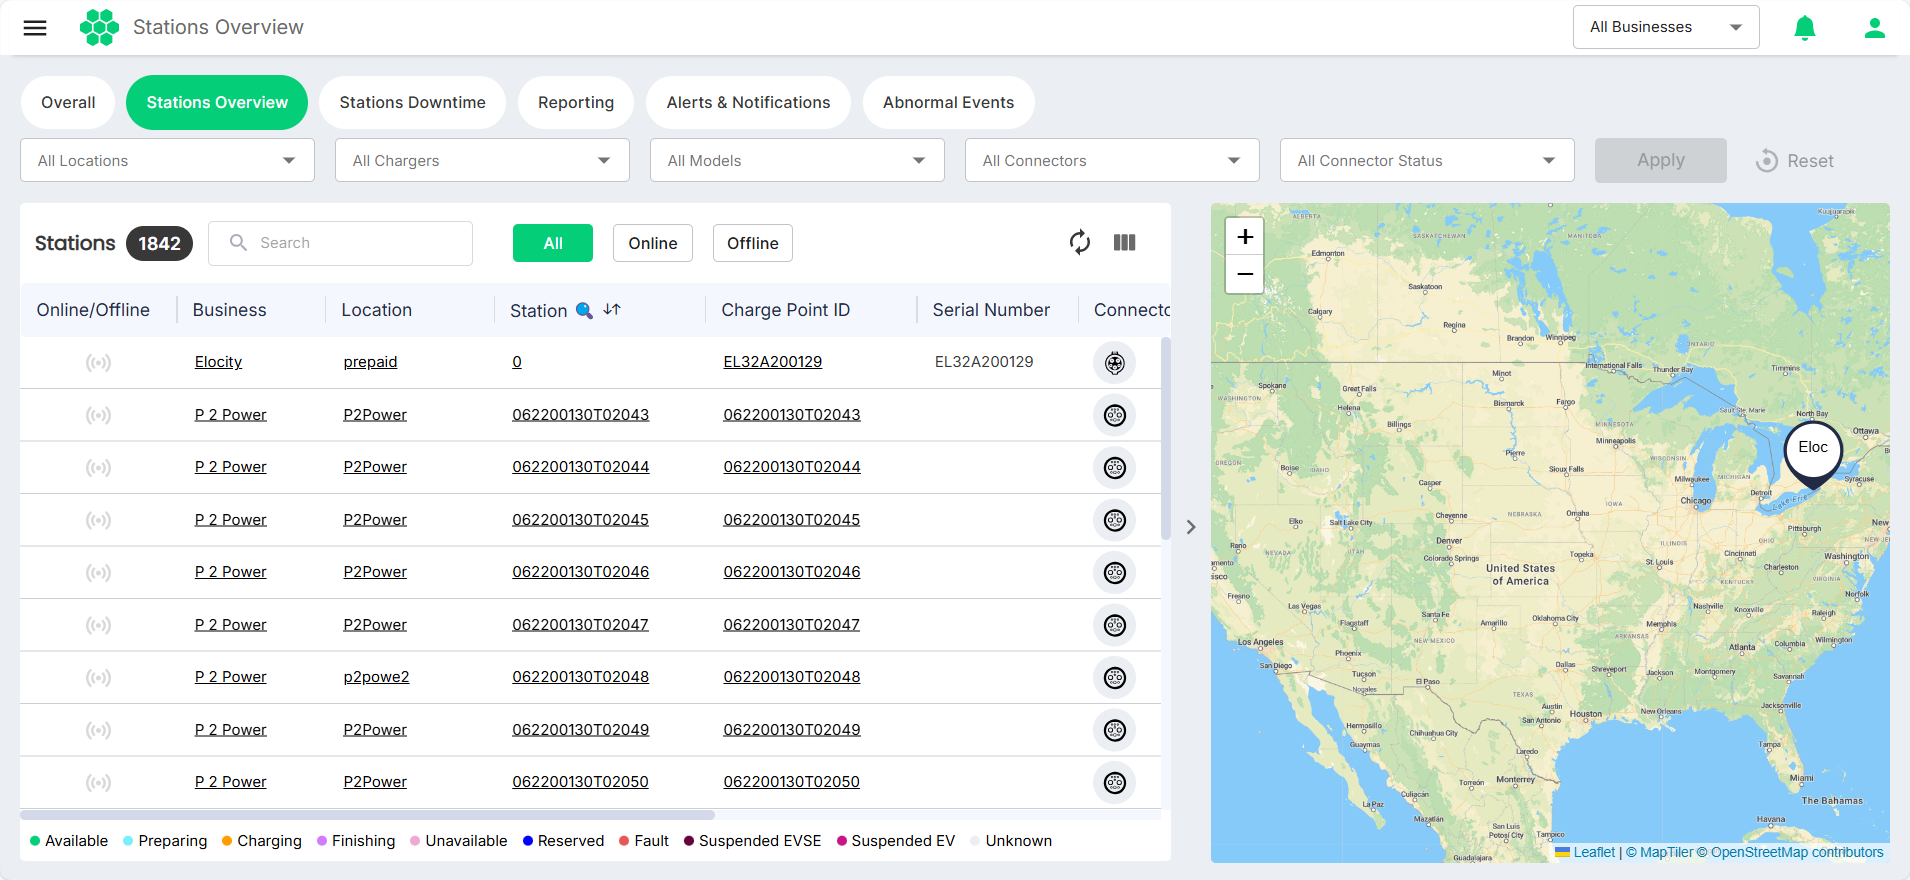
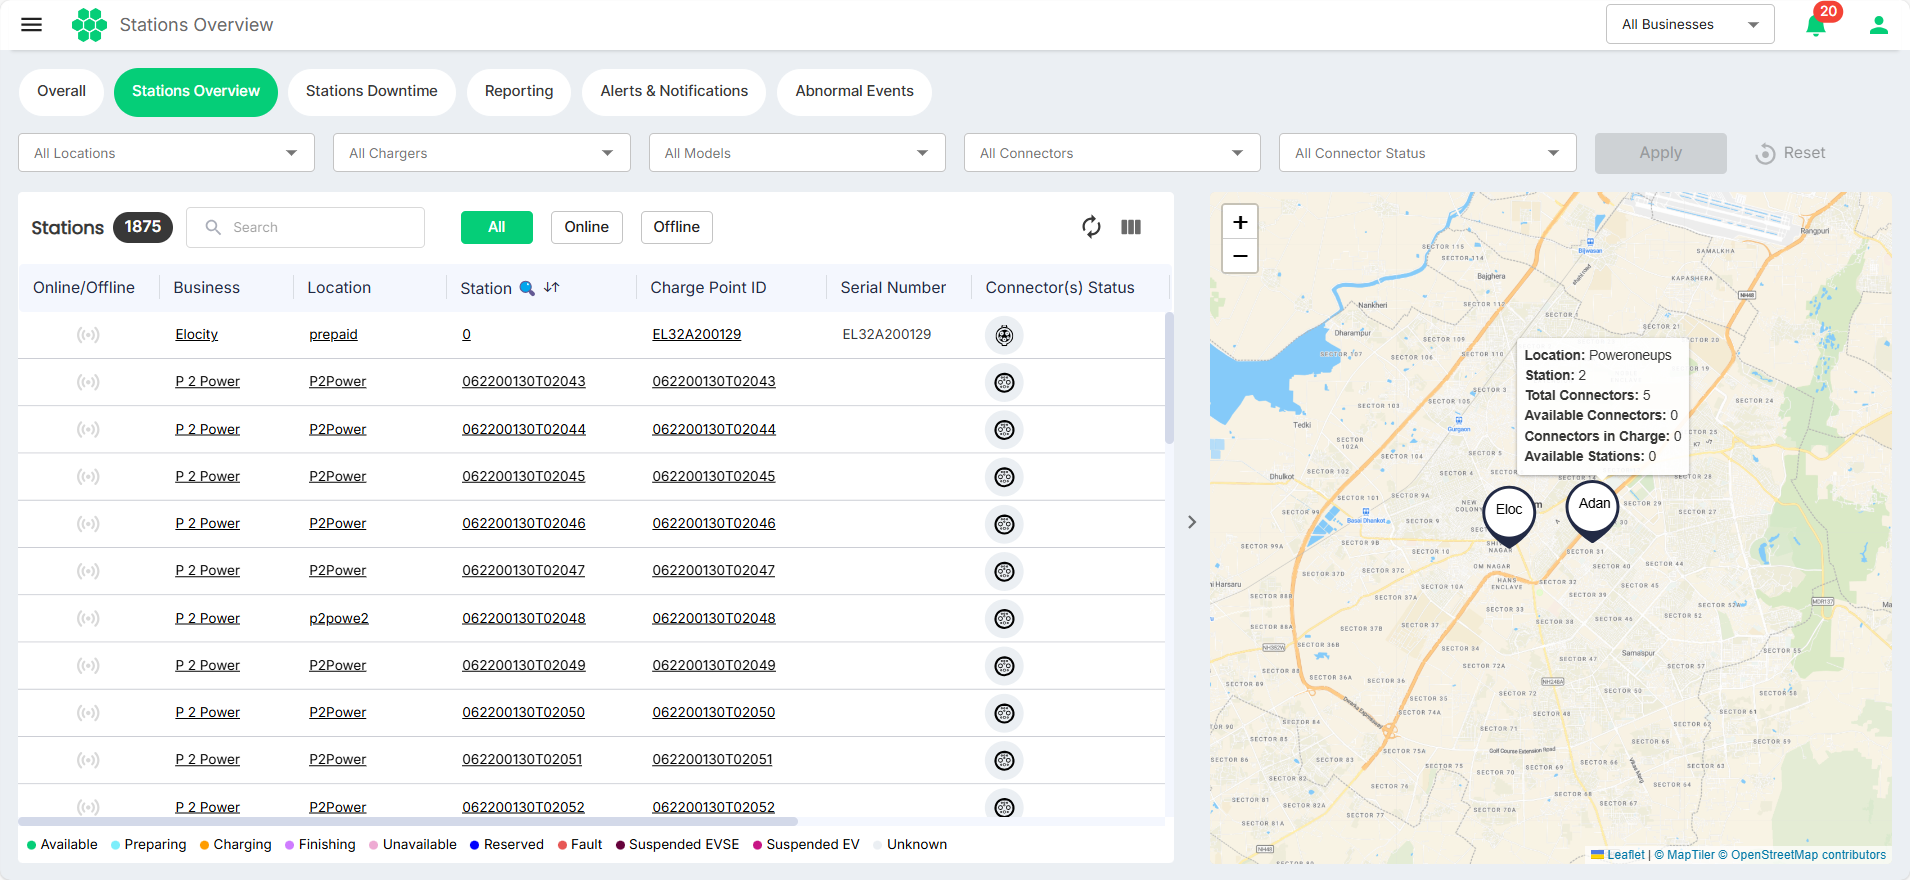
Updates

diff --git a/docs/AdminGuide/RevenueShare/ManagingRevenueShareGroups.md b/docs/AdminGuide/RevenueShare/ManagingRevenueShareGroups.md
@@ -20,7 +20,7 @@ To create a Revenue Share Group, follow these steps:
    ![Revenue Share Group](img/RevShareGrp2.png)
 3. Enter the **Group Name** and select the locations from the **Select Network** drop-down list.
 4. Select the entities from the drop-down lists and specify the revenue share percentage against each of them. Make sure that the sum of all the Revenue Share percentage is 100.
-5. Click the **Save**.
+5. Click the **Save** button.
 
 ## Editing a Revenue Share Group
 To edit a Revenue Share Group, follow these steps:
@@ -33,7 +33,7 @@ To edit a Revenue Share Group, follow these steps:
    ![Revenue Share Group](img/RevShareGrp4.png)
 4. Make the desired changes.
    ![Revenue Share Group](img/RevShareGrp5.png)
-5. Click **Save**.
+5. Click the **Save** button.
 
 ## Deleting a Revenue Share Group
 To delete a Revenue Share Group, follow these steps:

diff --git a/docs/AdminGuide/Dashboard/StationsOverview.md b/docs/AdminGuide/Dashboard/StationsOverview.md
@@ -22,6 +22,9 @@ With real-time data and flexible filtering capabilities, you can proactively mon
 Additionally, you can use the search function (indicated by the lens icon  ![lens](img/lens.png)  to highlight search-enabled fields) and the online/offline filter to swiftly find specific chargers.
 ![Startions Ovewview](img/StationsOverviewFilters2.png)
 
+:::note
+In addition to the filtered data being displayed in the tabular format, the map on the right also refreshes to display the filtered details related to the charging stations. You can zoom in over the map to view granular details and hover your mouse over locations to view details.
+:::
 ## Connector Status
 
 The following table lists the different states of a station connector.

diff --git a/docs/AdminGuide/GettingStarted/LoggingIn.md b/docs/AdminGuide/GettingStarted/LoggingIn.md
@@ -1,12 +1,13 @@
 ---
-sidebar_position: 5
+sidebar_position: 6
 ---
 # Logging In
 Follow these steps to log in to the Elocity HIEV Portal.
 1. Open your web browser and navigate to the [Elocity HIEV Portal](https://hiev.ca).
    ![Login](img/login.png)
 
-3. Enter your registered email address and click **Next**.
+3. Enter your registered email address, and click the **Next** button.
    ![Login](img/login2.png)
-3. Enter your password.
-4. Click **Next**. 
+3. Enter your password, and click the **Next** button.![Login](img/login3.png)
+4. Enter the four-digit one-time password (OTP) received in your registered email.
+5. Click the **Login** button.

diff --git a/docs/AdminGuide/GettingStarted/GlobalActions.md b/docs/AdminGuide/GettingStarted/GlobalActions.md
@@ -1,5 +1,5 @@
 ---
-sidebar_position: 8
+sidebar_position: 9
 ---
 # Global Actions
 
@@ -32,5 +32,5 @@ Additionally, you can use the search function for the fields indicated by the ![
 ![Searching](img/search.png)
 
 ## Downloading Report/Exporting Data
-You the use the **Download Report** or **Export Data** button available on the screens to download the data in .xls format to your computer for offline analysis. 
+You the use the **Download Report** or **Export Data** button available on the screens to download the data in .CSV format to your computer for offline analysis. 
 ![Download Data](img/DownloadReport.png)

diff --git a/docs/AdminGuide/GettingStarted/Reaching Out for Help.md b/docs/AdminGuide/GettingStarted/Reaching Out for Help.md
@@ -1,0 +1,13 @@
+---
+sidebar_position: 4
+---
+# Reaching Out for Help
+
+If you have questions or need support, help is just a click away! 
+
+1. Click the **Help** button located at the bottom-right corner of your screen to connect with our support team.![Login](img/login.png)
+
+1. A window opens where you can provide **Your Name**, **Email Address**, **Subject**, and **Description**.![Login](img/help.png)
+
+1. In addition, you can take a screenshot that you may want to share with the support team or upload up to five files with your message.
+2. Then, click the **Send** button.

diff --git a/docs/AdminGuide/RevenueShare/ViewingReports.md b/docs/AdminGuide/RevenueShare/ViewingReports.md
@@ -8,6 +8,7 @@ To view the repots, follow these steps:
 1. Navigate to **Revenue Share** from the menu on the left.
     ![Reports](img/Reports.png)
 
-3. Under the **Reports** tab, select the date range, revenue share groups, and locations. Then, click the **Apply** button.
+3. Under the **Reports** tab, select the date range, revenue share groups, and locations.
+4. Click the **Apply** button.
   
 The reports appears on the screen.

diff --git a/docs/AdminGuide/GettingStarted/NotificationsandAlerts.md b/docs/AdminGuide/GettingStarted/NotificationsandAlerts.md
@@ -1,5 +1,5 @@
 ---
-sidebar_position: 7
+sidebar_position: 8
 ---
 # Notifications and Alerts
 

diff --git a/docs/AdminGuide/GettingStarted/ResettingPassword.md b/docs/AdminGuide/GettingStarted/ResettingPassword.md
@@ -1,5 +1,5 @@
 ---
-sidebar_position: 6
+sidebar_position: 7
 ---
 # Resetting Password
 

diff --git a/docs/AdminGuide/GettingStarted/SigningUp.md b/docs/AdminGuide/GettingStarted/SigningUp.md
@@ -1,5 +1,5 @@
 ---
-sidebar_position: 4
+sidebar_position: 5
 ---
 # Signing Up
 
